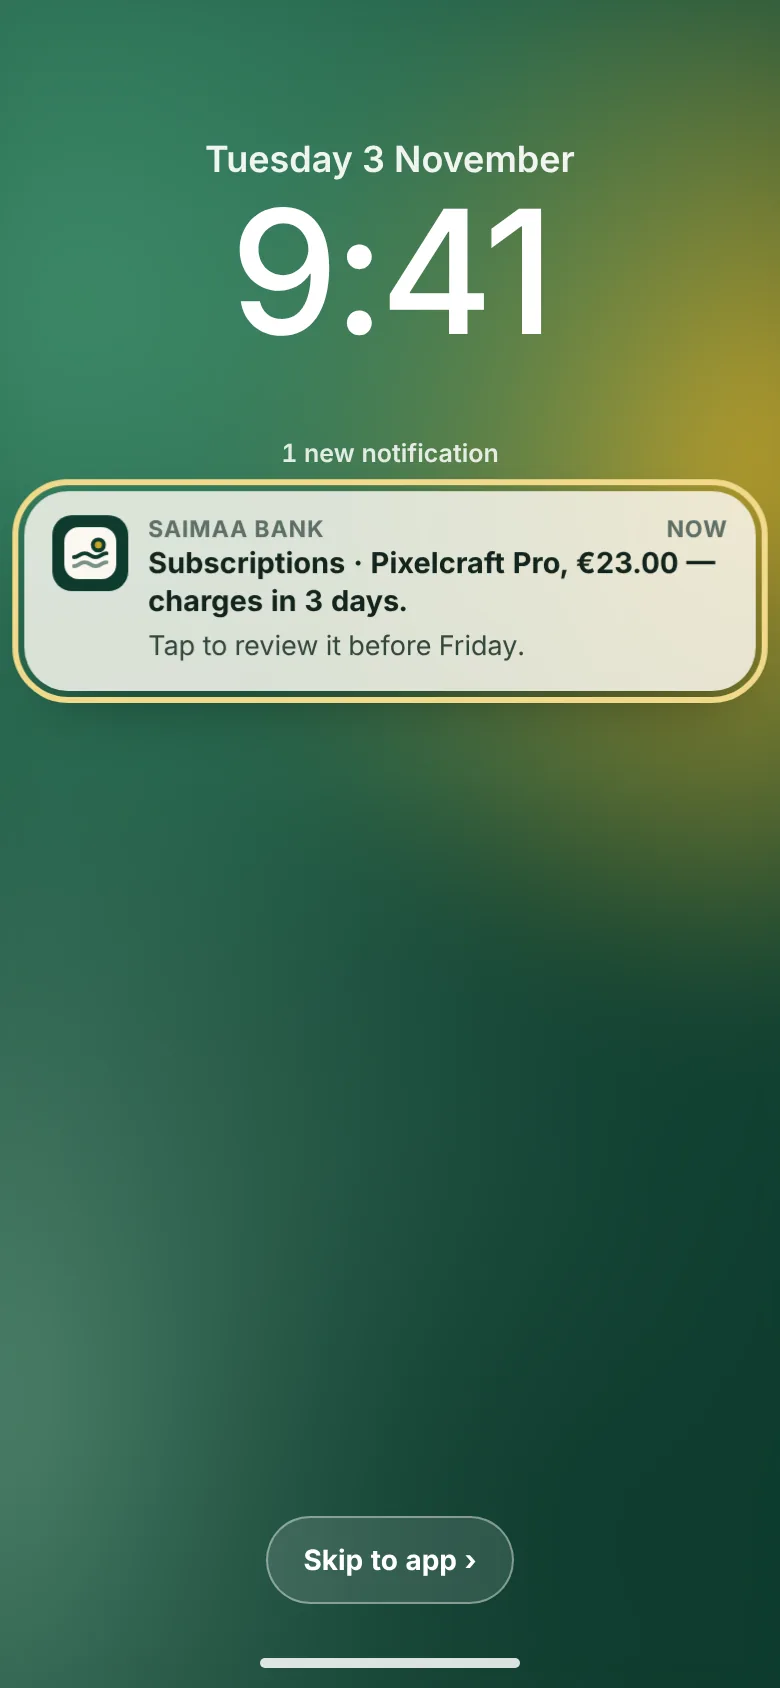
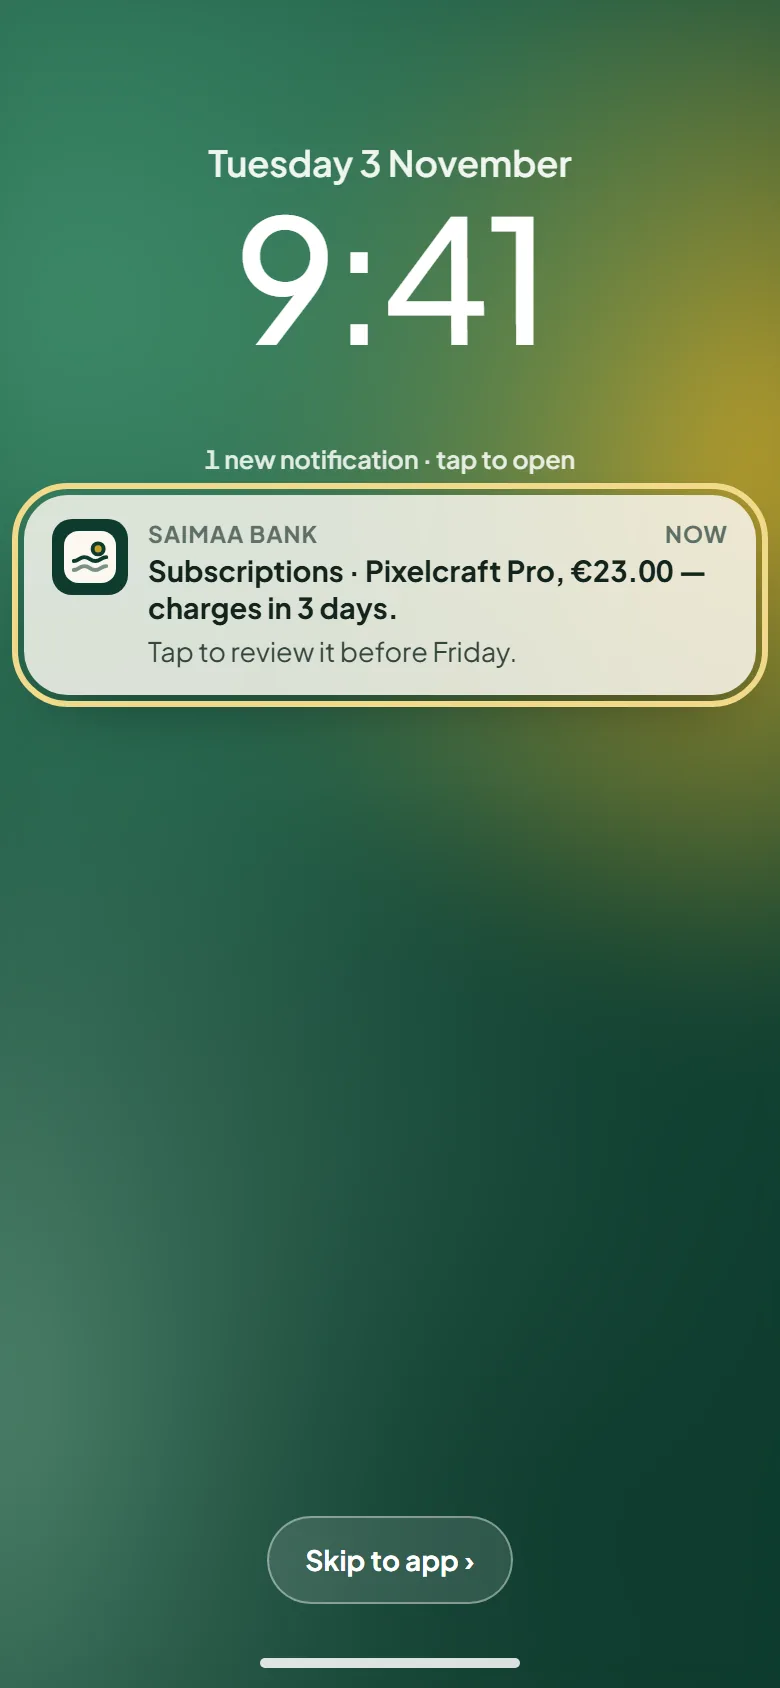
Restore the original lock-screen notification, without the replay bug
Bring back the slide-in entrance and "1 new notification · tap to open".
The card used to vanish because every redraw behind the lock screen
rebuilt it and restarted its entrance animation; the overlay is now only
rebuilt when it changes, and a fallback shows the card if a browser never
runs the animation.

Claude-Session: https://claude.ai/code/session_01KHRqqJzeUyXHUZKNLEb6bR

diff --git a/prototype/index.html b/prototype/index.html
@@ -395,7 +395,7 @@ button{cursor:pointer}
 .lock-hint{margin:40px 0 8px;text-align:center;font-size:12.5px;font-weight:600;opacity:.85}
 .notif{display:grid;grid-template-columns:38px 1fr;gap:10px;width:calc(100% - 24px);margin:0 12px;padding:12px 14px;border:0;border-radius:22px;text-align:left;
   background:rgba(251,248,241,.84);color:var(--ink);-webkit-backdrop-filter:blur(18px);backdrop-filter:blur(18px);
-  box-shadow:0 14px 34px -12px rgba(0,0,0,.45);animation:notifIn 420ms var(--ease)}
+  box-shadow:0 14px 34px -12px rgba(0,0,0,.45);animation:notifIn 520ms var(--ease) 250ms both}
 .notif:hover{background:rgba(251,248,241,.95)}
 .notif:focus-visible{outline-color:var(--gold-lite);outline-offset:3px}
 .notif-icon{width:38px;height:38px;border-radius:10px;display:grid;place-items:center;background:var(--bank)}
@@ -667,7 +667,9 @@ button{cursor:pointer}
 @keyframes fade{from{opacity:0}to{opacity:1}}
 @keyframes sheetUp{from{transform:translateY(100%)}to{transform:none}}
 @keyframes toastIn{from{opacity:0;transform:translateY(10px)}to{opacity:1;transform:none}}
-@keyframes notifIn{from{transform:translateY(-12px) scale(.98)}to{transform:none}}   /* movement only: the card is visible from the first frame */
+@keyframes notifIn{from{opacity:0;transform:translateY(-18px) scale(.97)}to{opacity:1;transform:none}}
+/* Safety net: if a browser never runs the entrance animation (background tab, automation), show the card anyway */
+.notif.shown{animation:none}
 @keyframes pop{from{opacity:0;transform:scale(.96)}to{opacity:1;transform:none}}
 @media (prefers-reduced-motion: reduce){
   *,*::before,*::after{animation:none!important;transition:none!important;scroll-behavior:auto!important}
@@ -1510,7 +1512,9 @@ function render({ nav: isNav = false, focusTitle = false } = {}) {
   let overlay = '';
   if (ui.lockOn) overlay = renderLock();
   else if (route.name === 'cancel') overlay = renderProvider(route.param);
-  els.overlay.innerHTML = overlay;
+  /* only rebuild the overlay when it changes — otherwise the notification's entrance animation would replay
+     (and hide the card again) every time the app behind the lock screen redraws */
+  if (overlay !== els.overlay._html) { els.overlay.innerHTML = overlay; els.overlay._html = overlay; }
   els.overlay.classList.toggle('on', !!overlay);
   syncInert();
 
@@ -1561,6 +1565,10 @@ function afterRender() {
     });
     if (currentRoute().name === 'hub' && state.alerts.some(a => a.type === 'confirmed')) ui.sawConfirmation = true;
   }
+  if (ui.lockOn) setTimeout(() => {
+    const n = els.overlay.querySelector('.notif');
+    if (n && getComputedStyle(n).opacity !== '1') n.classList.add('shown');
+  }, 1000);
   updateTabbar();
   updateDemoBar();
   syncTicker();
@@ -2734,7 +2742,7 @@ function renderLock() {
         <div class="lock-time" aria-hidden="true">9:41</div>
       </div>
       ${n ? `
-        <p class="lock-hint">1 new notification</p>
+        <p class="lock-hint">1 new notification · tap to open</p>
         <button class="notif" data-action="openNotification" data-autofocus>
           <span class="notif-icon" aria-hidden="true">${bankLogo(26)}</span>
           <span>
